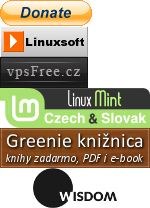
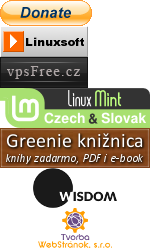
Odkaz na tvorbawebstranok (výmena za možnosť pracovať na linuxos počas prac. doby)

diff --git a/templates/static/block-odporucame.html b/templates/static/block-odporucame.html
@@ -1,8 +1,9 @@
 <p>
-	<a href="http://vpsfree.cz" class="banner_button" style="background: url('{{ static("banners/banners.png") }}?hash=1ca9eb4caece33be489823366c3f104e') 0px -57px; width: 88px; height: 31px;" onclick="window.open(this.href); return false;">Banner vpsFree.cz o.s. - Virtuální Privátní Servery svobodně</a><br /><br />
-	<a href="http://www.linux-mint-czech.cz/" class="banner_button" style="background: url('{{ static("banners/banners.png") }}?hash=1ca9eb4caece33be489823366c3f104e') 0px -88px; width: 150px; height: 40px;" onclick="window.open(this.href); return false;">Linux-Mint-Czech</a><br /><br />
-	<a href="http://www.wisdomtech.sk/" class="banner_button" style="background: url('{{ static("banners/banners.png") }}?hash=1ca9eb4caece33be489823366c3f104e') 0px -168px; width: 150px; height: 40px;" onclick="window.open(this.href); return false;" title="Online Marketingová Agentúra | Wisdom Technologies s.r.o.">Online Marketingová Agentúra | Wisdom Technologies s.r.o.</a><br /><br />
-	<a href="http://knihy.rs-design.sk" class="banner_button" style="background: url('{{ static("banners/banners.png") }}?hash=1ca9eb4caece33be489823366c3f104e') 0px -128px; width: 150px; height: 40px;" title="Bezplatná online knižnica, chcem vydať knihu, knihy v PDF, epub či mobi pre Kindle" onclick="window.open(this.href); return false;">Knihy, e-book, PDF, knižnica, Greenie</a><br /><br />
+	<a href="http://vpsfree.cz" class="banner_button" style="background: url('{{ static("banners/banners.png") }}?hash=3f619c3901ac5bef8a22ab7dcaaf2b7a') 0px -57px; width: 88px; height: 31px;" onclick="window.open(this.href); return false;">Banner vpsFree.cz o.s. - Virtuální Privátní Servery svobodně</a><br /><br />
+	<a href="http://www.linux-mint-czech.cz/" class="banner_button" style="background: url('{{ static("banners/banners.png") }}?hash=3f619c3901ac5bef8a22ab7dcaaf2b7a') 0px -88px; width: 150px; height: 40px;" onclick="window.open(this.href); return false;">Linux-Mint-Czech</a>
+	<a href="http://knihy.rs-design.sk" class="banner_button" style="background: url('{{ static("banners/banners.png") }}?hash=3f619c3901ac5bef8a22ab7dcaaf2b7a') 0px -128px; width: 150px; height: 40px;" title="Bezplatná online knižnica, chcem vydať knihu, knihy v PDF, epub či mobi pre Kindle" onclick="window.open(this.href); return false;">Knihy, e-book, PDF, knižnica, Greenie</a><br /><br />
+	<a href="http://www.wisdomtech.sk/" class="banner_button" style="background: url('{{ static("banners/banners.png") }}?hash=3f619c3901ac5bef8a22ab7dcaaf2b7a') 0px -168px; width: 150px; height: 40px;" onclick="window.open(this.href); return false;" title="Online Marketingová Agentúra | Wisdom Technologies s.r.o.">Online Marketingová Agentúra | Wisdom Technologies s.r.o.</a>
+	<a href="https://www.tvorbawebstranok.sk/" class="banner_button" style="background: url('{{ static("banners/banners.png") }}?hash=3f619c3901ac5bef8a22ab7dcaaf2b7a') 0px -208px; width: 150px; height: 40px;" onclick="window.open(this.href); return false;" title="Tvorba web stránok a internetový marketing | TvorbaWebStránok, s.r.o.">Tvorba web stránok a internetový marketing | TvorbaWebStránok, s.r.o.</a><br /><br />
 
 	<a href="http://sk-spell.sk.cx/" onclick="window.open(this.href); return false;">SK-spell</a> <a href="http://prekladatelia.info/" onclick="window.open(this.href); return false;">Prekladatelia</a>
 	<!--
